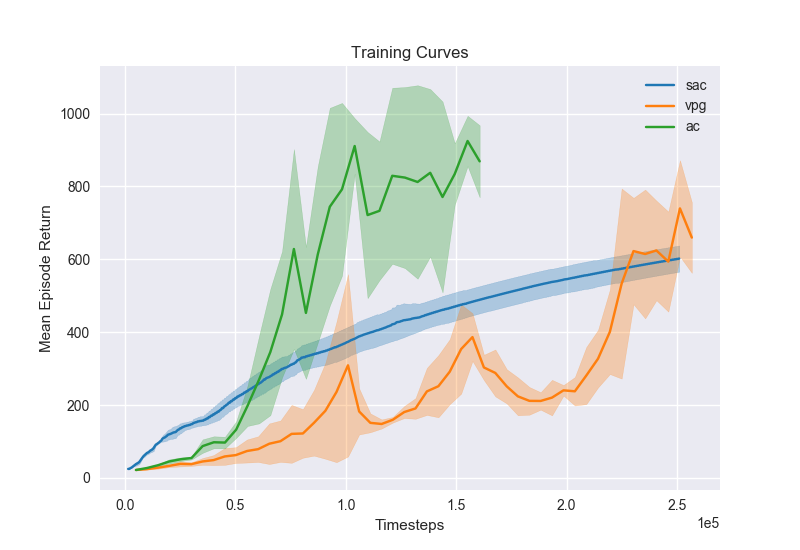
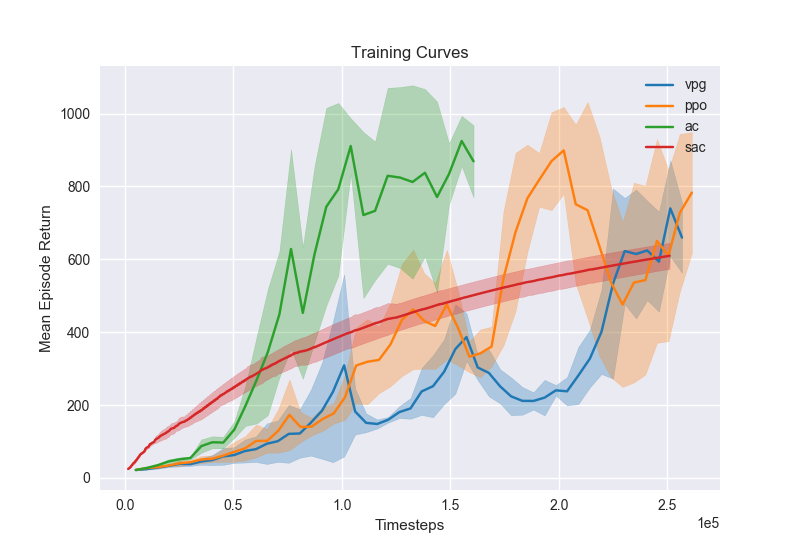
ppo ip

diff --git a/run/ppo/train.py b/run/ppo/train.py
@@ -3,6 +3,7 @@ import os
 import argparse
 import time
 import numpy as np
+import roboschool
 from multiprocessing import Process
 
 from src.ppo.ppo import ProximalPolicyOptimisation
@@ -107,7 +108,7 @@ def _train(env_name, exp_name, seed, debug=True, n_iter=100, save_every=25, **kw
 
     env.close()
 
-# TODO: train all these, plot, plot comparisons
+# TODO: train all these -- on longjob?? on colab??, plot, plot comparisons
 
 
 def train_cartpole(n_experiments=3, seed=1, debug=True, exp_name="ppo-cartpole"):
@@ -117,8 +118,9 @@ def train_cartpole(n_experiments=3, seed=1, debug=True, exp_name="ppo-cartpole")
 
 
 def train_inverted_pendulum(n_experiments=3, seed=1, debug=True, exp_name="ppo-inverted-pendulum"):
+    nn_baseline = FC_NN([64, 64], 1)
     train("RoboschoolInvertedPendulum-v1", exp_name, n_experiments, seed=seed, debug=debug,
-          nn_baseline=None, min_timesteps_per_batch=5000,
+          nn_baseline=nn_baseline, min_timesteps_per_batch=5000,
           learning_rate=0.005, n_iter=50, gamma=0.95, render_every=1000, save_every=45)
 
 

diff --git a/run/compare/compare.py b/run/compare/compare.py
@@ -23,7 +23,9 @@ def compare_inverted_pendulum():
     sac = os.path.join(run_dir, "sac", "experiments", "sac-inverted-pendulum")
     # VPG logs
     vpg = os.path.join(run_dir, "vpg", "experiments", "vpg-inverted-pendulum")
-    plot_training_curves({"ac": ac, "sac": sac, "vpg": vpg}, save_to=os.path.join(here_dir, "inverted-pendulum.png"))
+    # PPO logs
+    ppo = os.path.join(run_dir, "ppo", "experiments", "ppo-inverted-pendulum")
+    plot_training_curves({"ac": ac, "sac": sac, "vpg": vpg, "ppo": ppo}, save_to=os.path.join(here_dir, "inverted-pendulum.png"))
 
 
 def compare_lander():
@@ -46,7 +48,7 @@ def compare_half_cheetah():
 
 
 if __name__ == "__main__":
-    compare_cartpole()
-#     compare_inverted_pendulum()
+    # compare_cartpole()
+    compare_inverted_pendulum()
 #     compare_lander()
 #     compare_half_cheetah()

diff --git a/run/vpg/train.py b/run/vpg/train.py
@@ -3,6 +3,7 @@ import os
 import argparse
 import time
 import numpy as np
+import roboschool
 from multiprocessing import Process
 
 from src.vpg.vpg import VanillaPolicyGradients
